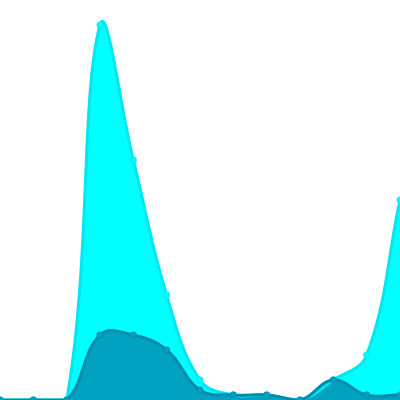
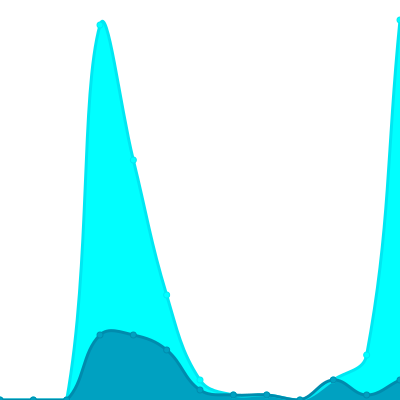
Update views

diff --git a/readme/590585276/year.md b/readme/590585276/year.md
@@ -23,10 +23,10 @@
 			<code>2023/10/1</code>
 		</td>
 		<td>
-			<code>1</code>
+			<code>4</code>
 		</td>
 		<td>
-			<code>40</code>
+			<code>76</code>
 		</td>
 	</tr>
 	<tr>
@@ -164,7 +164,7 @@
 </table>
 
 </details>
-<small><i>Last updated on 2023/10/16 6:23 AM UTC</i></small>
+<small><i>Last updated on 2023/10/16 12:33 PM UTC</i></small>
 
 ## ✂Copy and 📋 Paste
 ### SVG Badge

diff --git a/README.md b/README.md
@@ -261,7 +261,7 @@ The project created and maintained by [gayanvoice](https://github.com/gayanvoice
 	</tr>
 </table>
 
-<small><i>Last updated on 2023/10/16 6:24 AM UTC</i></small>
+<small><i>Last updated on 2023/10/16 12:34 PM UTC</i></small>
 
 ## ✂Copy and 📋 Paste
 ### Total Views Badge

diff --git a/readme/575984445/year.md b/readme/575984445/year.md
@@ -164,7 +164,7 @@
 </table>
 
 </details>
-<small><i>Last updated on 2023/10/16 6:22 AM UTC</i></small>
+<small><i>Last updated on 2023/10/16 12:32 PM UTC</i></small>
 
 ## ✂Copy and 📋 Paste
 ### SVG Badge

diff --git a/readme/579040991/year.md b/readme/579040991/year.md
@@ -164,7 +164,7 @@
 </table>
 
 </details>
-<small><i>Last updated on 2023/10/16 6:22 AM UTC</i></small>
+<small><i>Last updated on 2023/10/16 12:32 PM UTC</i></small>
 
 ## ✂Copy and 📋 Paste
 ### SVG Badge

diff --git a/readme/580090437/year.md b/readme/580090437/year.md
@@ -164,7 +164,7 @@
 </table>
 
 </details>
-<small><i>Last updated on 2023/10/16 6:22 AM UTC</i></small>
+<small><i>Last updated on 2023/10/16 12:32 PM UTC</i></small>
 
 ## ✂Copy and 📋 Paste
 ### SVG Badge

diff --git a/readme/585246516/year.md b/readme/585246516/year.md
@@ -164,7 +164,7 @@
 </table>
 
 </details>
-<small><i>Last updated on 2023/10/16 6:22 AM UTC</i></small>
+<small><i>Last updated on 2023/10/16 12:33 PM UTC</i></small>
 
 ## ✂Copy and 📋 Paste
 ### SVG Badge

diff --git a/readme/585602897/year.md b/readme/585602897/year.md
@@ -164,7 +164,7 @@
 </table>
 
 </details>
-<small><i>Last updated on 2023/10/16 6:22 AM UTC</i></small>
+<small><i>Last updated on 2023/10/16 12:33 PM UTC</i></small>
 
 ## ✂Copy and 📋 Paste
 ### SVG Badge

diff --git a/readme/587856184/year.md b/readme/587856184/year.md
@@ -164,7 +164,7 @@
 </table>
 
 </details>
-<small><i>Last updated on 2023/10/16 6:23 AM UTC</i></small>
+<small><i>Last updated on 2023/10/16 12:33 PM UTC</i></small>
 
 ## ✂Copy and 📋 Paste
 ### SVG Badge

diff --git a/readme/588312814/year.md b/readme/588312814/year.md
@@ -164,7 +164,7 @@
 </table>
 
 </details>
-<small><i>Last updated on 2023/10/16 6:23 AM UTC</i></small>
+<small><i>Last updated on 2023/10/16 12:33 PM UTC</i></small>
 
 ## ✂Copy and 📋 Paste
 ### SVG Badge

diff --git a/readme/590209017/year.md b/readme/590209017/year.md
@@ -164,7 +164,7 @@
 </table>
 
 </details>
-<small><i>Last updated on 2023/10/16 6:22 AM UTC</i></small>
+<small><i>Last updated on 2023/10/16 12:32 PM UTC</i></small>
 
 ## ✂Copy and 📋 Paste
 ### SVG Badge

diff --git a/readme/593365146/year.md b/readme/593365146/year.md
@@ -164,7 +164,7 @@
 </table>
 
 </details>
-<small><i>Last updated on 2023/10/16 6:23 AM UTC</i></small>
+<small><i>Last updated on 2023/10/16 12:33 PM UTC</i></small>
 
 ## ✂Copy and 📋 Paste
 ### SVG Badge

diff --git a/readme/596222269/year.md b/readme/596222269/year.md
@@ -164,7 +164,7 @@
 </table>
 
 </details>
-<small><i>Last updated on 2023/10/16 6:23 AM UTC</i></small>
+<small><i>Last updated on 2023/10/16 12:33 PM UTC</i></small>
 
 ## ✂Copy and 📋 Paste
 ### SVG Badge
